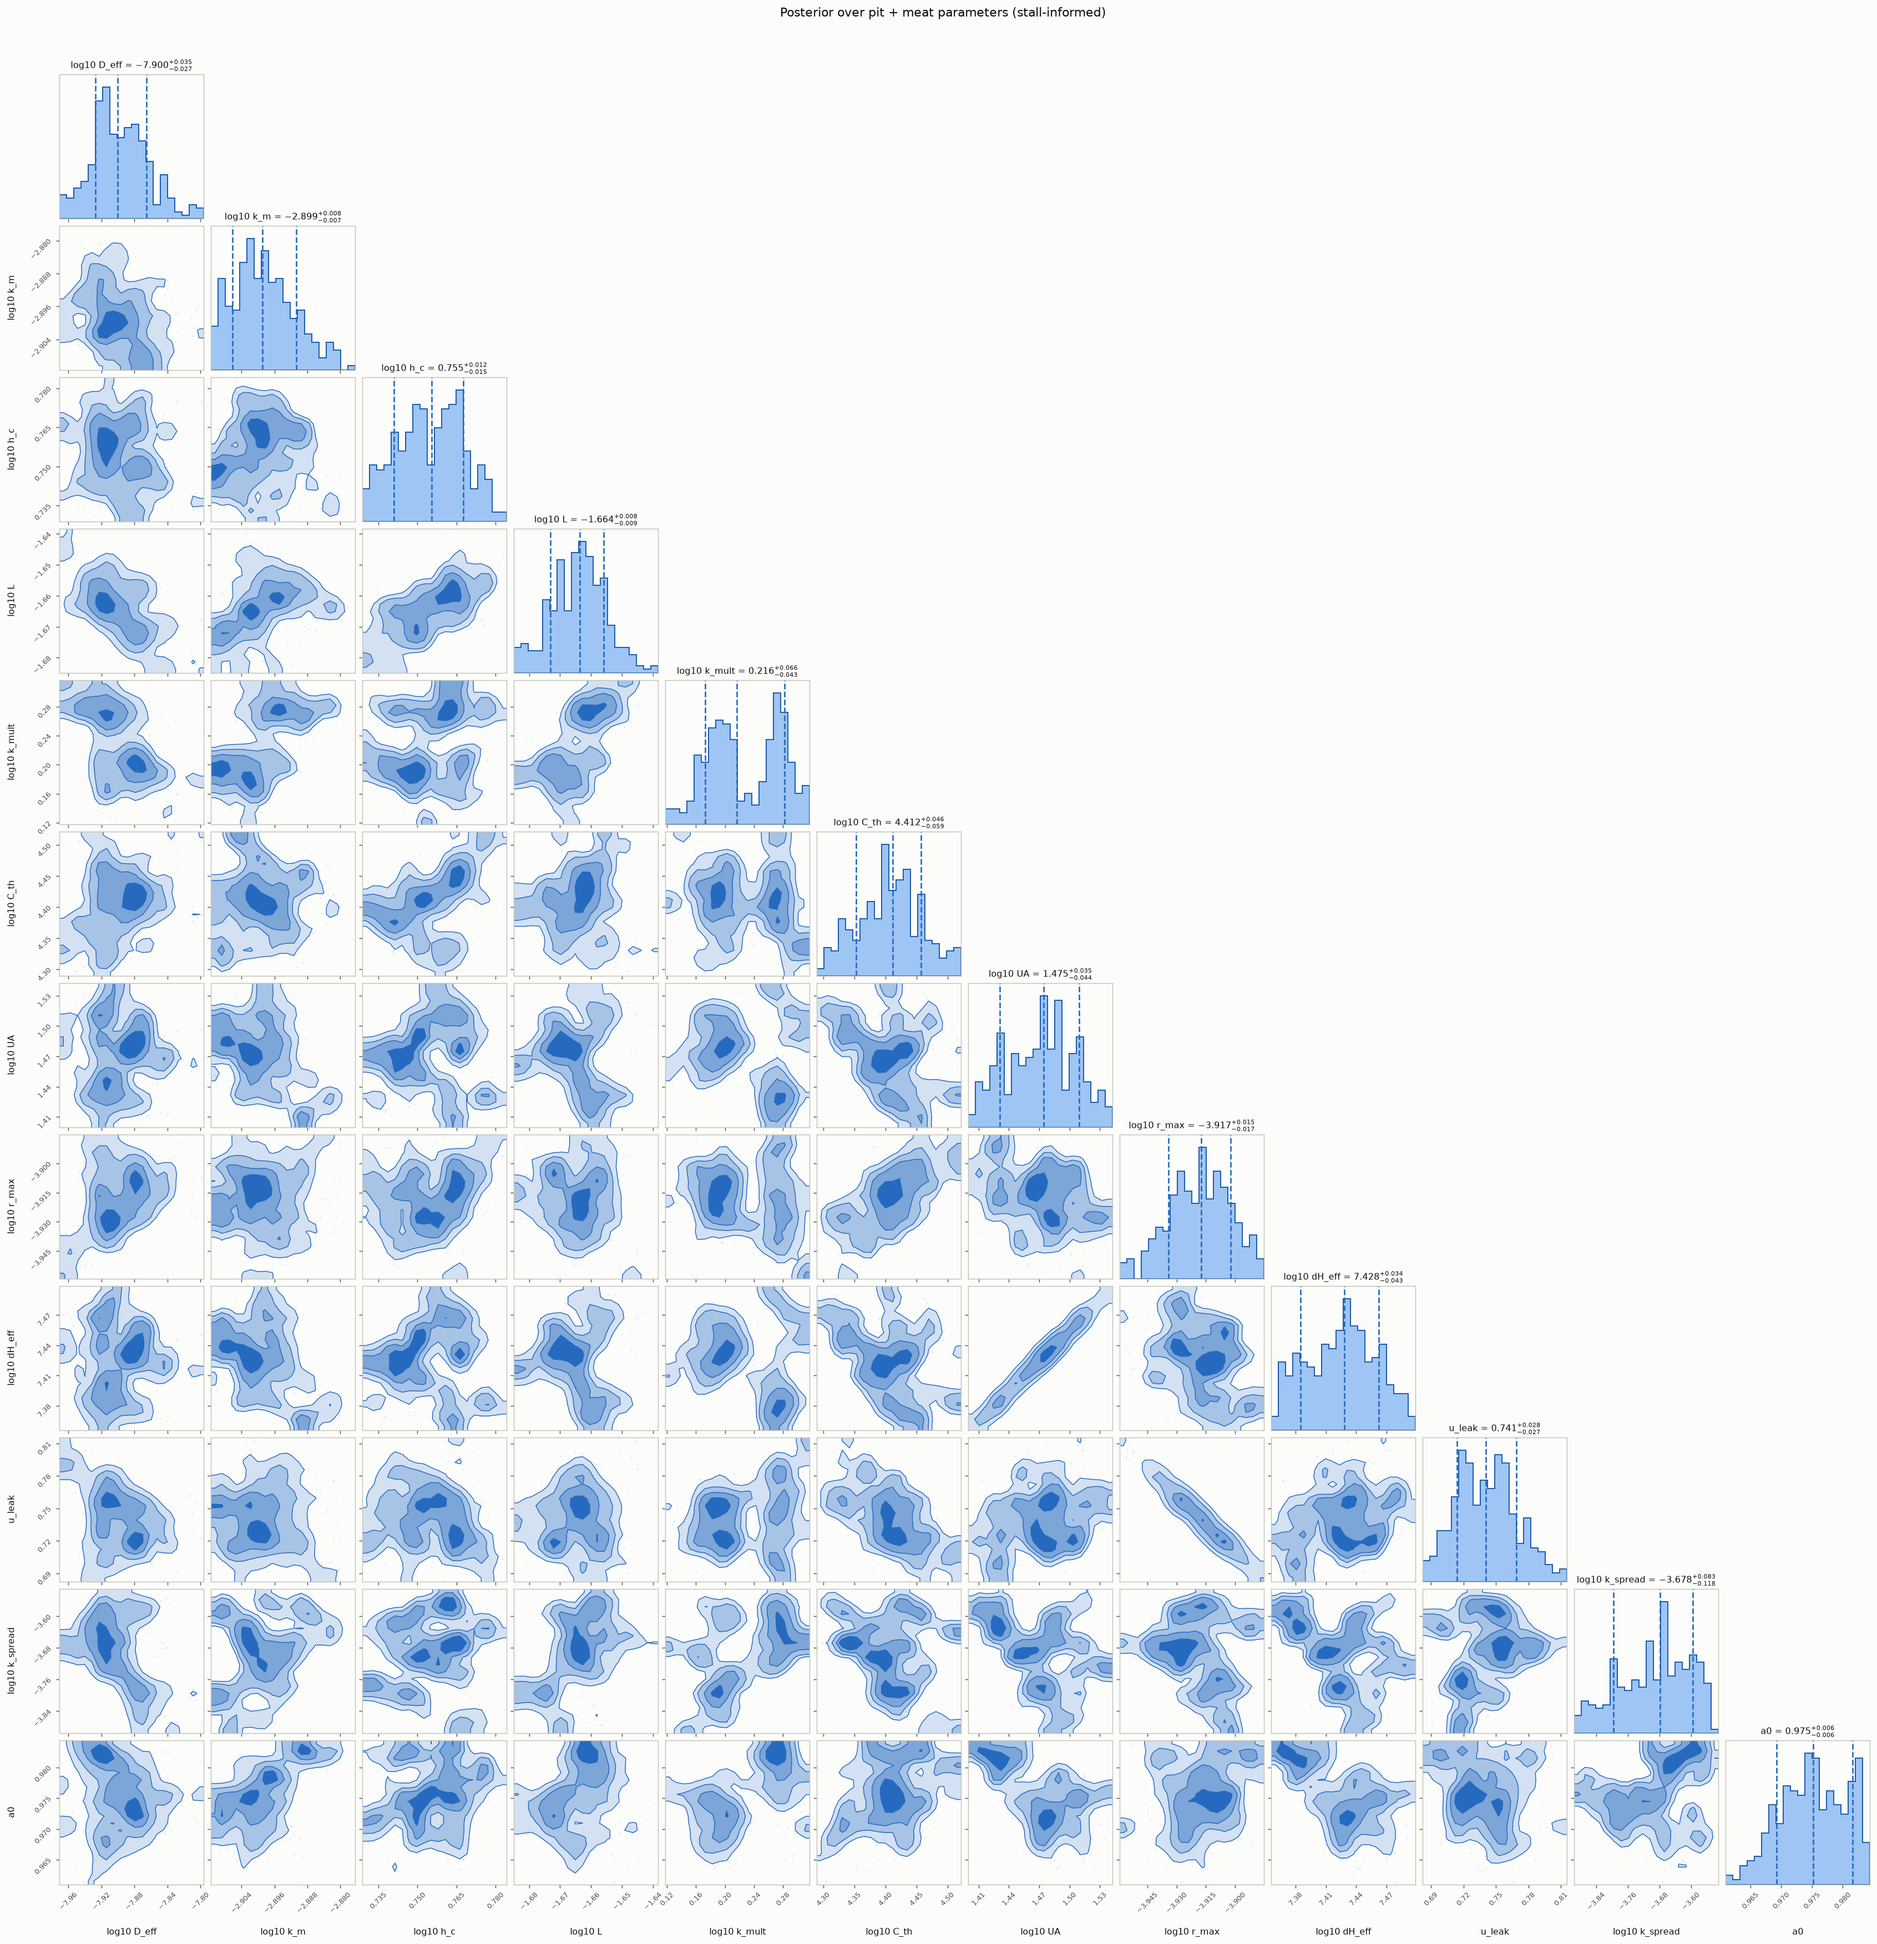
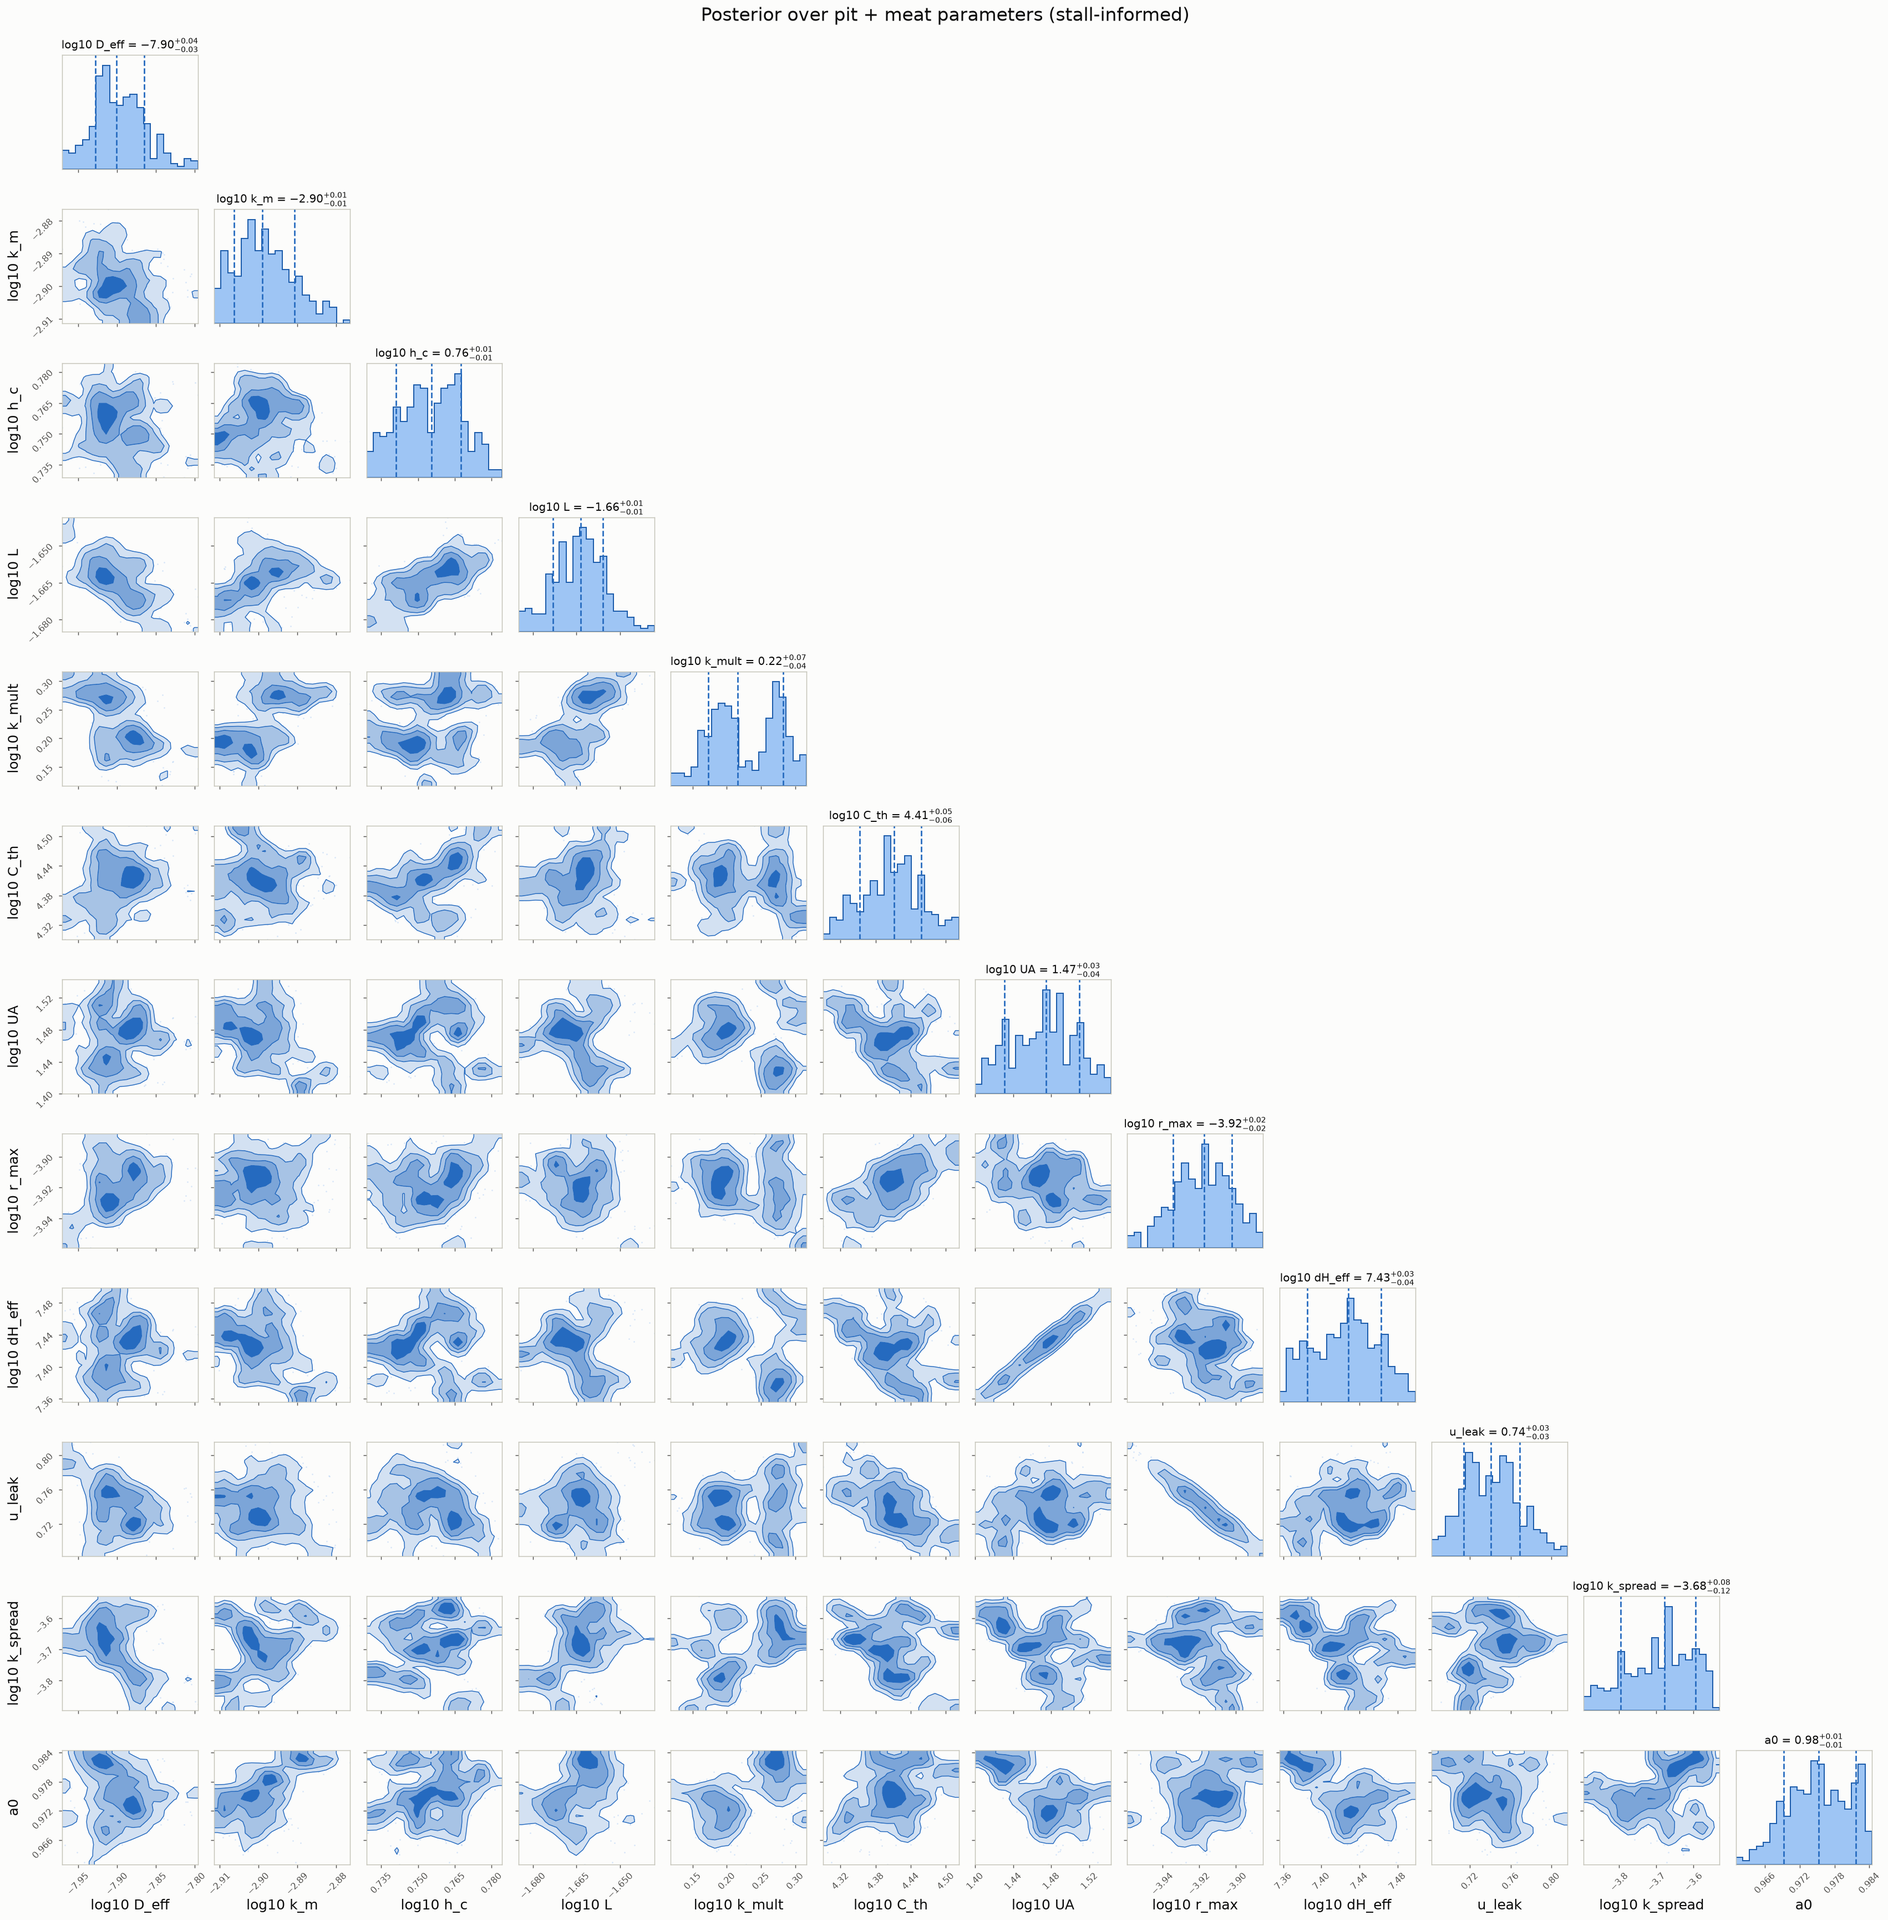
Corner plots: larger type, collision-free titles, MAP-overlay supplement
Labels 14/titles 11/ticks 9 with max 4 ticks and hspace headroom so
titles never intersect neighboring panels. corner_real_widerange.png
added as supplementary figure (MAP point vs posterior bulk along the
flat ridges), referenced from the writeup.

Changed region(s): [[0.0, 0.0312, 1.0, 0.9983], [0.4035, 0.0, 0.5897, 0.0312]]

diff --git a/app/src/brisket_app/plots.py b/app/src/brisket_app/plots.py
@@ -61,18 +61,22 @@ def corner_plot(samples: dict, out_path: Path, truths: dict | None = None,
         hist_kwargs={"histtype": "stepfilled", "facecolor": BLUE_LIGHT,
                      "edgecolor": BLUE_DARK, "linewidth": 1.1},
         quantiles=[0.16, 0.5, 0.84],
-        show_titles=True, title_fmt=".3f",
-        title_kwargs={"fontsize": 9, "color": INK},
-        label_kwargs={"fontsize": 9, "color": INK},
+        show_titles=True, title_fmt=".2f",
+        title_kwargs={"fontsize": 11, "color": INK},
+        label_kwargs={"fontsize": 14, "color": INK},
+        max_n_ticks=4,
     )
+    # titles are wider than their panels: give rows headroom so a diagonal
+    # panel's title cannot collide with the histogram up-left of it
+    fig.subplots_adjust(hspace=0.35, wspace=0.12)
     fig.patch.set_facecolor(SURFACE)
     for ax in fig.axes:
         ax.set_facecolor(SURFACE)
-        ax.tick_params(colors=MUTED, labelsize=7)
+        ax.tick_params(colors=MUTED, labelsize=9)
         for spine in ax.spines.values():
             spine.set_color(BASELINE)
     fig.suptitle("Posterior over pit + meat parameters (stall-informed)",
-                 y=1.02, color=INK)
+                 y=1.01, color=INK, fontsize=18)
     fig.savefig(out_path, dpi=130, bbox_inches="tight",
                 facecolor=fig.get_facecolor())
     plt.close(fig)

diff --git a/docs/writeup.md b/docs/writeup.md
@@ -122,7 +122,10 @@ posterior slides along two clean ridges (UA ∝ ΔH_eff, heat loss vs heat
 release; r_max vs u_leak, burn rate vs leak dilution), the fingerprint of
 closed-loop data. Instructively, the MAP's u_leak = 0.21 and the
 posterior's 0.70–0.79 band produce near-identical trajectories: the "leaky
-door" is a property of the burn ridge, not an individually pinned number.
+door" is a property of the burn ridge, not an individually pinned number
+(`figures/corner_real_widerange.png` widens the axes to overlay the MAP
+point — point estimate and posterior bulk sit far apart along the flat
+ridge directions while fitting the data equally well).
 Diagnostics quoted as-is: single chain, ESS 4–17, split-r̂ up to 2.6 — the
 chain explores the ridges but has not equilibrated; it remains extendable
 from its checkpoint.
